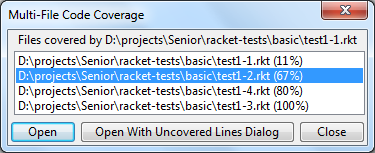
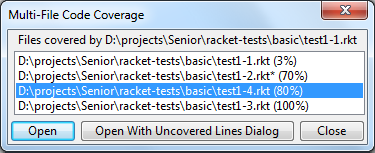
more writing

Changed region(s): [[0.0293, 0.366, 0.968, 0.6536], [0.0, 0.7843, 0.9973, 0.9935]]

diff --git a/report/sections/implementation.tex b/report/sections/implementation.tex
@@ -1,7 +1,17 @@
 The Multi-file Code Coverage Tool is implemented as a PLaneT package. This requires no modification to any of DrRacket's source files and satisfies one of the additional goals for the project. PlaneT also brings the benefits of easy distribution, installation, updating, and feedback for the tool. The Multi-file Code Coverage Tool works in the following steps: first, searching for a test info hash table; second, coloring the code of currently open files; and third, displaying a series of dialogs that give the user test coverage information. This process can be seen in figure \ref{fig:extended-flow} on page \pageref{fig:extended-flow}.
 
-The Multi-file Code Coverage tool adds a new button to DrRacket, labeled ``Multi-file Coverage'' (Figure \ref{fig:coverage-button}). Clicking this button will color code in all open tabs using the currently in focus tab's test coverage info hash table. This means, if the user opens their test program and runs it and then clicks the button, all open tabs will be colored relative to the test file. However, if the user switches to another file, before clicking the ``Multi-file Coverage'' button, the newly switched to file's test coverage info will be applied. This behavior, while perhaps not immediately obvious, allows for code coverage information and highlighting to be switched between quickly.
+The Multi-file Code Coverage Tool adds a new button to DrRacket, labeled ``Multi-file Coverage'' (Figure \ref{fig:coverage-button}). Clicking this button will color code in all open tabs using the currently in focus tab's test coverage info hash table. This means, if the user opens their test program and runs it and then clicks the button, all open tabs will be colored relative to the test file. However, if the user switches to another file, before clicking the ``Multi-file Coverage'' button, the newly switched to file's test coverage info will be applied. This behavior, while perhaps not immediately obvious, allows for code coverage information and highlighting to be quickly switched between.
 
 \newfigure{coverage-button}{Multi-File Coverage Button in DrRacket}{width=9cm}{h!}
 
 \newfigure{extended-flow}{Extended DrRacket Code Coverage Flow}{width=10cm}{h!}
+
+After the ``Multi-file Coverage'' button is pressed the first thing done is loading the test coverage info hash table. This hash table contains all the information needed to properly display code coverage. There are two places that the test coverage info hash table may be found: in the current \emph{tab's} memory or as a saved coverage info file. If it is found in memory that means the program was recently run and the hash table is as up to date as it possibly can be. For this reason loading the hash table from memory is preferred. However, if the test coverage info could not be found in memory then it is looked for on the disk. The saved hash table is placed in a ``compiled'' directory next to the source file. This ``compiled'' directory is also where DrRacket would place a compiled versions of the source program. Every program only has one saved coverage file. It's file name is the same of the source file, but with a special coverage extension. When the test coverage info is loaded from a saved file it may be out of date. So, the save file's last modification date is compared to that of the source file's. If the save file was modified more recently than the source file a warning, as seen in figure \ref{fig:out-of-date-dialog}, is displayed. The user may choose to ignore this warning. While doing so means that code coverage will used outdated information, it allows the user to load code coverage information without running the source file again. This could be useful if the source file is large and takes a long time to run. If the test coverage information could not be found, either in memory or in a save file, an error message is displayed, as seen in figure \ref{fig:no-coverage-found-dialog}. Finally, if the test coverage info was loaded from memory, then the data is written to the coverage save file.
+
+\newfigure{out-of-date-dialog}{Out Of Date Dialog}{width=8.5cm}{h!} 
+\newfigure{no-coverage-found-dialog}{No Coverage Found Dialog}{width=8.5cm}{h!}
+
+
+Next the loaded code coverage information is sent to open files that were covered by the source file to do code coloring. Each code expression in the test info coverage hash table has a file name attached to it. So, by searching through the coverage information a list of covered files can be computed. The coverage info is then applied to every open file. A list of open files are found by looking through every \emph{tab}, in every \emph{frame} found in the \emph{frame group}. Then, for each open file, that is also covered by the source file, the test coverage info is sent to it. No reduction of the test coverage has table is needed before applying it to a file, even though it will contain irrelevant coverage information. The \emph{show-test-coverage-annotations} method in \emph{tab} will only use the relevant information. During the process of sending coverage information to tabs, it is also computed if the coverage is valid. Coverage information can become invalid when the file being receiving it has been modified after the coverage information was collected. The test coverage info hash table has no internal way of determining it's validity. So, before it is sent a check is preformed by comparing the last modification date of the saved coverage file and the source file. If the source file has been modified after the source file then its test coverage is considered invalid and no code coloring will be done to it. This information will also appear as an asterisk in the Covered Files Dialog (Figure \ref{fig:covered-files-dialog})
+
+\newfigure{covered-files-dialog}{Covered Files Dialog}{width=7cm}{h!}

diff --git a/report/sections/research.tex b/report/sections/research.tex
@@ -4,11 +4,11 @@ During the research processes a few important facts where discovered: one,organi
 
 DrRacket's user interface is composed of four main classes. The highest class is the \emph{frame}. The \emph{frame} is an entire DrRacket environment as seen in figure \ref{fig:drracket}. Each frame has at least one \emph{tab}. A \emph{tab} always contains a definitions window, where the source code is visible and editable. A \emph{tab} may also contain an interactions window. Additionally, the frame group contains a list of all currently open \emph{frames}.
 
-\newfigure{gui-classes}{User Interface Classes}{width=6cm}{h!}
+\newfigure{gui-classes}{DrRacket User Interface Classes}{width=6cm}{h!}
 
 While DrRacket's default code coverage only applies code coloring to the active file, it collects information for all uncompiled files in the project. Code coverage can not be collected for compiled files because their code can not be expanded to track executed expressions (see figure~\ref{fig:default-flow}). 
 
-The code coverage and code coloring process are independent. DrRacket generates a hash table, called \emph{test-coverage-info} internally, when the program ins run. The hash table stores expressions, with their location in the source code, and whether or not they have been evaluated. 
+The code coverage and code coloring process are independent. DrRacket generates a hash table, called \emph{test-coverage-info} internally, when the program is run. The hash table stores expressions, with their location in the source code, and whether or not they have been evaluated. 
 
-The test coverage info hash table can be sent to a method in \emph{tab} (\ref{fig:gui-classes} which does code coloring for that tab based on the hash table. This hash remains available for use after code coloring has been completed. 
+The test coverage info hash table can be sent to a method in \emph{tab}, called \emph{show-test-coverage-annotations}, which does code coloring for that tab based on the hash table. This hash remains available for use after code coloring has been completed. 
 
